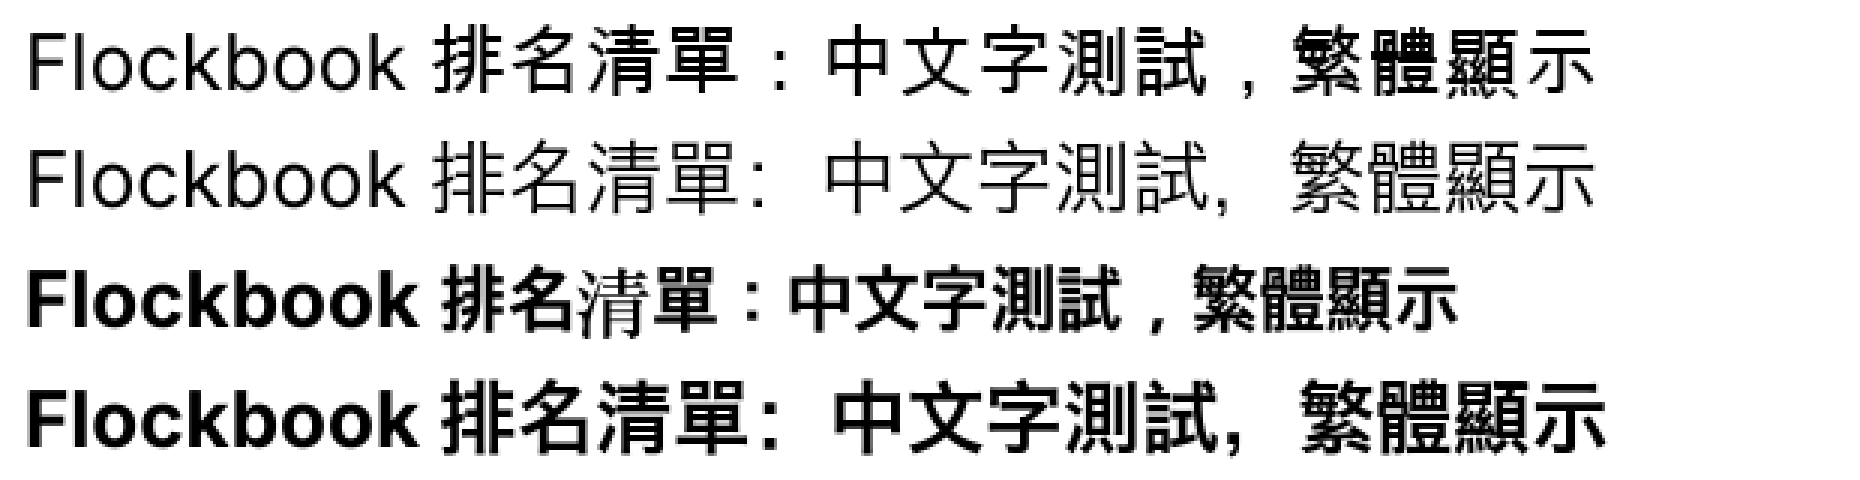
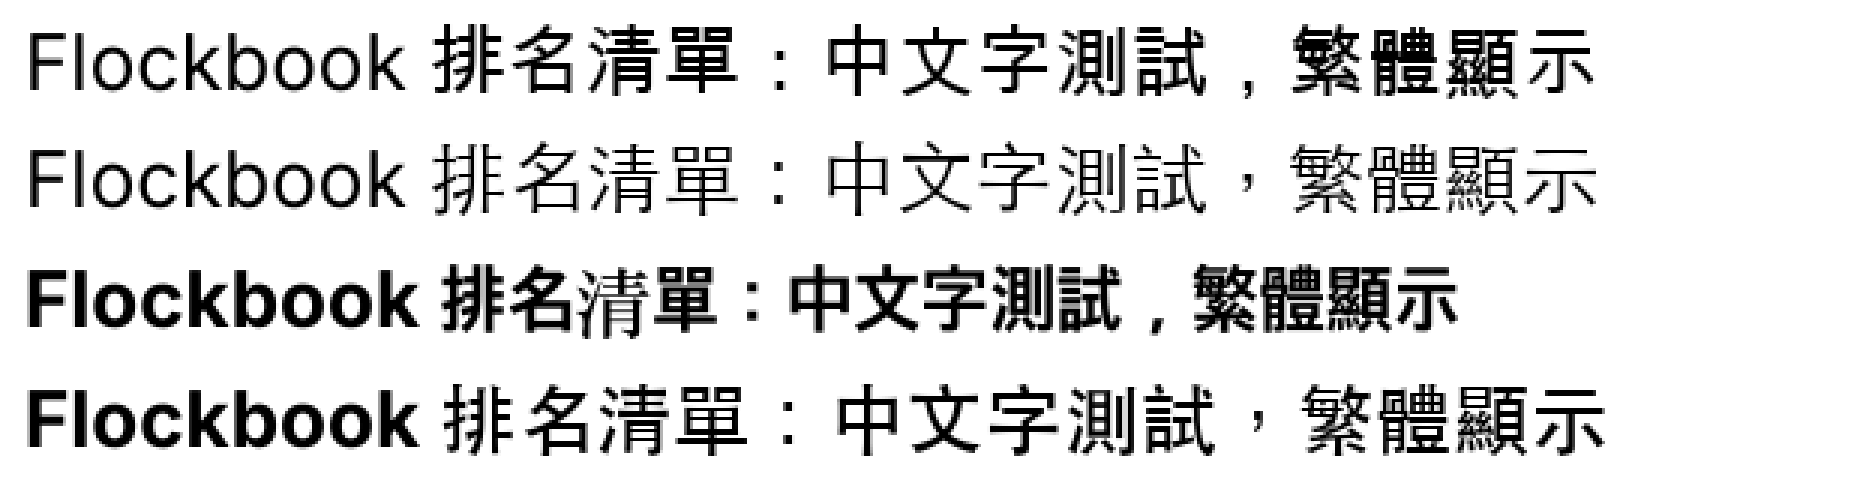
fb-ui: Traditional Chinese on macOS uses Heiti TC, centered punctuation
Hiragino Sans GB is a Simplified face: it draws the full-width comma,
colon and full stop low left, and the mainland glyph forms. For the TC
and HK regions on macOS, Heiti TC now comes first: Taiwan forms, and
，：。、 centered in the cell. Hiragino Sans GB stays next for anything
Heiti TC lacks; Simplified keeps Hiragino Sans GB.

Heiti TC has only Light (300) and Medium (400), so nearest weight gave
Medium to regular and bold alike. A family without a face at 600 or
above now keeps its heaviest face for 600 and above: regular is Light,
bold is Medium.

Changed region(s): [[0.2183, 0.7812, 0.8731, 0.9688], [0.2183, 0.2812, 0.8731, 0.4688]]

diff --git a/xplat/fb-ui/tests/cjk.rs b/xplat/fb-ui/tests/cjk.rs
@@ -90,6 +90,29 @@ fn an_alias_covers_every_weight_with_the_nearest_face() {
     assert_eq!(cjk::alias(&mut db, "No Such Family", "Nothing"), 0);
 }
 
+/// Heiti TC has only Light (300) and Medium (400). Nearest-weight would give Medium to both regular and bold, so
+/// bold Chinese would look regular. A family without a face at 600 or above uses its heaviest face as the bold.
+#[test]
+fn a_family_without_a_bold_keeps_its_heaviest_face_for_bold() {
+    let mut db = bundled_db();
+    let inter = db.faces().find(|f| f.families[0].0 == "Inter" && f.weight.0 == 400).unwrap().clone();
+    for (w, ps) in [(300, "Two-Light"), (400, "Two-Medium")] {
+        let mut f = inter.clone();
+        f.families = vec![("Two Faces".into(), fontdb::Language::English_UnitedStates)];
+        f.weight = fontdb::Weight(w);
+        f.post_script_name = ps.into();
+        db.push_face_info(f);
+    }
+    cjk::alias(&mut db, "Two Faces", "Two Alias");
+    let ps = |w: u16| db.faces().find(|f| f.families[0].0 == "Two Alias" && f.weight.0 == w).unwrap().post_script_name.clone();
+    for w in [100, 300, 400, 500] {
+        assert!(ps(w).starts_with("Two-Light-"), "{w}: {}", ps(w));
+    }
+    for w in [600, 700, 900] {
+        assert!(ps(w).starts_with("Two-Medium-"), "{w}: {}", ps(w));
+    }
+}
+
 #[test]
 fn nothing_is_aliased_when_no_candidate_is_installed() {
     let mut db = bundled_db();
@@ -148,15 +171,15 @@ fn han_text_uses_the_picked_face_at_every_weight() {
 }
 
 /// The bug: on macOS 26 Chinese fell to Arial Unicode MS. PingFang there has only `hvgl` outlines, so it is
-/// skipped; Hiragino Sans GB draws Chinese now.
+/// skipped; Heiti TC draws Traditional Chinese now (Hiragino Sans GB Simplified).
 #[cfg(target_os = "macos")]
 #[test]
-fn macos_draws_chinese_with_hiragino_not_arial_unicode() {
+fn macos_draws_chinese_with_a_system_cjk_sans_not_arial_unicode() {
     let (mut before, _) = system(false, "en-TW");
     assert_eq!(families(&mut before, "排名清單", Weight::NORMAL), vec!["Arial Unicode MS".to_string()], "the old fallback");
     let (_, choice) = system(true, "en-TW");
     assert!(!choice.han.iter().any(|f| f.contains("PingFang")), "PingFang draws nothing here: {choice:?}");
-    assert_eq!(choice.han.first().map(String::as_str), Some("Hiragino Sans GB"), "{choice:?}");
+    assert_eq!(choice.han.first().map(String::as_str), Some("Heiti TC"), "{choice:?}");
     assert_eq!(choice.kana.first().map(String::as_str), Some("Hiragino Sans"), "{choice:?}");
     assert_eq!(choice.hangul.first().map(String::as_str), Some("Apple SD Gothic Neo"), "{choice:?}");
 }
@@ -169,9 +192,13 @@ const WIDTH: usize = 620;
 
 /// One line at 13 pt and scale 2 (26 px), dark text on white, as iced draws it (swash, alpha mask, hinting on).
 fn line(fs: &mut FontSystem, weight: Weight) -> Vec<u8> {
+    line_in(fs, "Inter", weight)
+}
+
+fn line_in(fs: &mut FontSystem, family: &str, weight: Weight) -> Vec<u8> {
     let mut buf = Buffer::new(fs, Metrics::new(26.0, LINE as f32));
     buf.set_size(fs, Some(WIDTH as f32 * 2.0), None);
-    buf.set_text(fs, TEXT, &Attrs::new().family(Family::Name("Inter")).weight(weight), Shaping::Advanced, None);
+    buf.set_text(fs, TEXT, &Attrs::new().family(Family::Name(family)).weight(weight), Shaping::Advanced, None);
     buf.shape_until_scroll(fs, false);
     let mut px = vec![255u8; WIDTH * LINE];
     let mut cache = SwashCache::new();
@@ -246,4 +273,40 @@ fn crops_before_and_after_at_2x() {
         eprintln!("hard edge share: before {b:.3}, after {a:.3}");
         assert!(a < b * 0.8, "the new face has softer edges: before {b:.3}, after {a:.3}");
     }
+}
+
+/// Where the ink of `ch` sits in its cell, as a share of the advance (0.5 = centered), and the face that drew it.
+fn ink_center(fs: &mut FontSystem, ch: char, weight: Weight) -> (f32, String) {
+    let mut buf = Buffer::new(fs, Metrics::new(40.0, 56.0));
+    buf.set_text(fs, &format!("中{ch}文"), &Attrs::new().family(Family::Name("Inter")).weight(weight), Shaping::Advanced, None);
+    buf.shape_until_scroll(fs, false);
+    let mut cache = SwashCache::new();
+    let run = buf.layout_runs().next().unwrap();
+    let g = run.glyphs.iter().find(|g| run.text[g.start..g.end].starts_with(ch)).unwrap();
+    let face = fs.db().face(g.font_id).unwrap().families[0].0.clone();
+    let pg = g.physical((0.0, 0.0), 1.0);
+    let img = cache.get_image_uncached(fs, pg.cache_key).unwrap();
+    let center = img.placement.left as f32 + img.placement.width as f32 / 2.0;
+    (center / g.w, face)
+}
+
+/// Traditional Chinese centers the full-width comma and colon in the cell; Simplified puts them low left.
+/// Hiragino Sans GB is a Simplified face, so on macOS Traditional text uses Heiti TC first.
+#[cfg(target_os = "macos")]
+#[test]
+fn full_width_punctuation_follows_the_region() {
+    for locale in ["en-TW", "zh-HK"] {
+        let (mut fs, choice) = system(true, locale);
+        assert_eq!(choice.han.first().map(String::as_str), Some("Heiti TC"), "{locale}: {choice:?}");
+        for ch in ['，', '：', '。', '、'] {
+            for w in [Weight::NORMAL, Weight::BOLD] {
+                let (x, face) = ink_center(&mut fs, ch, w);
+                assert!((0.4..0.6).contains(&x), "{locale} {ch} {w:?}: centered, got {x:.2} ({face})");
+            }
+        }
+    }
+    let (mut fs, choice) = system(true, "zh-CN");
+    assert_eq!(choice.han.first().map(String::as_str), Some("Hiragino Sans GB"), "{choice:?}");
+    let (x, face) = ink_center(&mut fs, '，', Weight::NORMAL);
+    assert!(x < 0.35, "zh-CN keeps the Simplified comma: {x:.2} ({face})");
 }

diff --git a/xplat/fb-ui/src/cjk.rs b/xplat/fb-ui/src/cjk.rs
@@ -84,10 +84,12 @@ pub fn region(locale: &str) -> Region {
 pub fn han_candidates(platform: Platform, region: Region) -> Vec<&'static str> {
     let (tc, hk, sc, ja, ko): (&[&str], &[&str], &[&str], &[&str], &[&str]) = match platform {
         Platform::MacOs => (
-            // PingFang first for macOS releases that ship it with drawable outlines. Hiragino Sans GB covers all
-            // of Big5 level 1 and has a real bold (W6); Heiti TC has no bold.
-            &["PingFang TC", "Hiragino Sans GB", "Heiti TC"],
-            &["PingFang HK", "Hiragino Sans GB", "Heiti TC"],
+            // PingFang first for macOS releases that ship it with drawable outlines (macOS 26 has only `hvgl`
+            // ones, which nothing here can draw). Traditional: Heiti TC, which draws the Taiwan glyph forms and
+            // centers the full-width punctuation (，：。、) as Traditional text does; its bold is Medium. Hiragino
+            // Sans GB is a Simplified face (punctuation low left): it comes next, for anything Heiti TC lacks.
+            &["PingFang TC", "Heiti TC", "Hiragino Sans GB"],
+            &["PingFang HK", "Heiti TC", "Hiragino Sans GB"],
             &["PingFang SC", "Hiragino Sans GB", "Heiti SC"],
             &["Hiragino Sans", "Hiragino Kaku Gothic ProN"],
             &["Apple SD Gothic Neo"],
@@ -176,10 +178,20 @@ pub fn alias(db: &mut fontdb::Database, family: &str, alias: &str) -> usize {
     if faces.is_empty() {
         return 0;
     }
+    // A family without a face at 600 or above (Heiti TC: Light 300, Medium 400) has no bold. Nearest weight would
+    // give its heaviest face to regular and bold alike, and bold text would look regular. So its heaviest face is
+    // kept for 600 and above, and the lighter faces serve the rest.
+    let heaviest = faces.iter().map(|f| f.weight.0).max().expect("not empty");
+    let no_bold = heaviest < 600 && faces.iter().any(|f| f.weight.0 < heaviest);
     for w in (100..=900).step_by(100) {
+        let usable: Vec<&fontdb::FaceInfo> = if no_bold {
+            faces.iter().filter(|f| (f.weight.0 == heaviest) == (w >= 600)).collect()
+        } else {
+            faces.iter().collect()
+        };
         // Nearest weight; on a tie the heavier face above Medium, the lighter one below.
-        let best = faces
-            .iter()
+        let best = usable
+            .into_iter()
             .min_by_key(|f| (f.weight.0.abs_diff(w), if w >= 500 { u16::MAX - f.weight.0 } else { f.weight.0 }))
             .expect("not empty");
         let mut info = best.clone();
